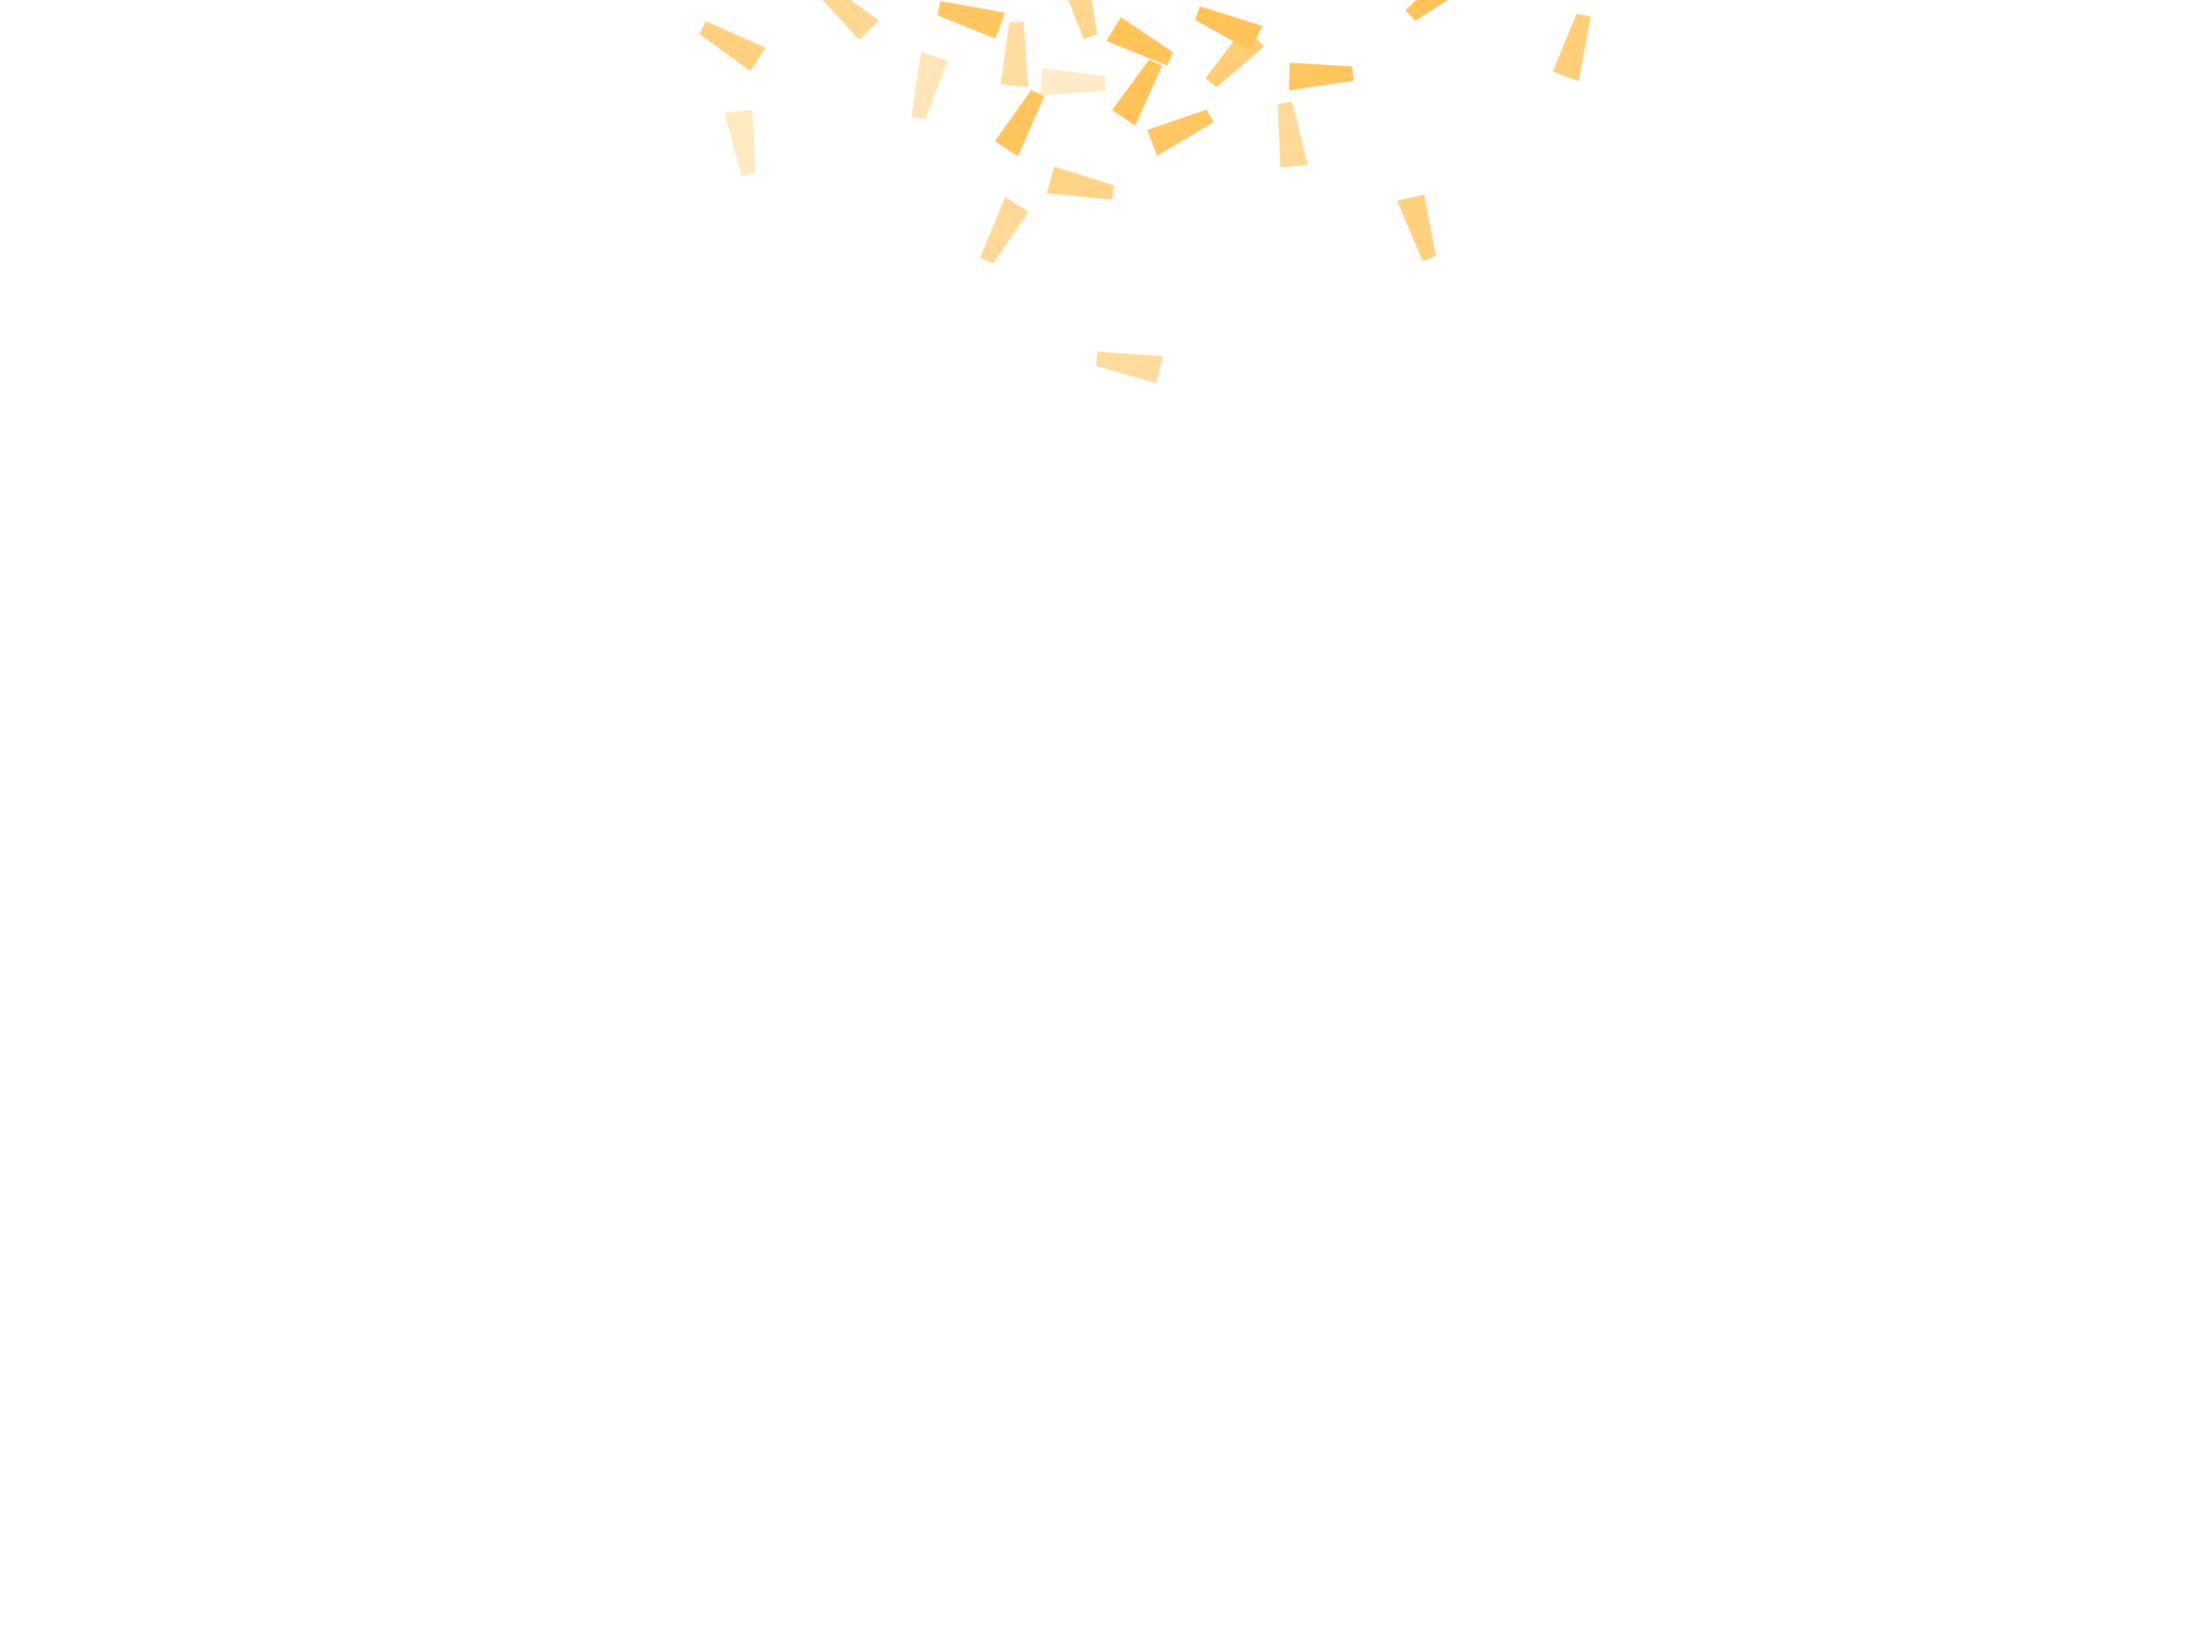
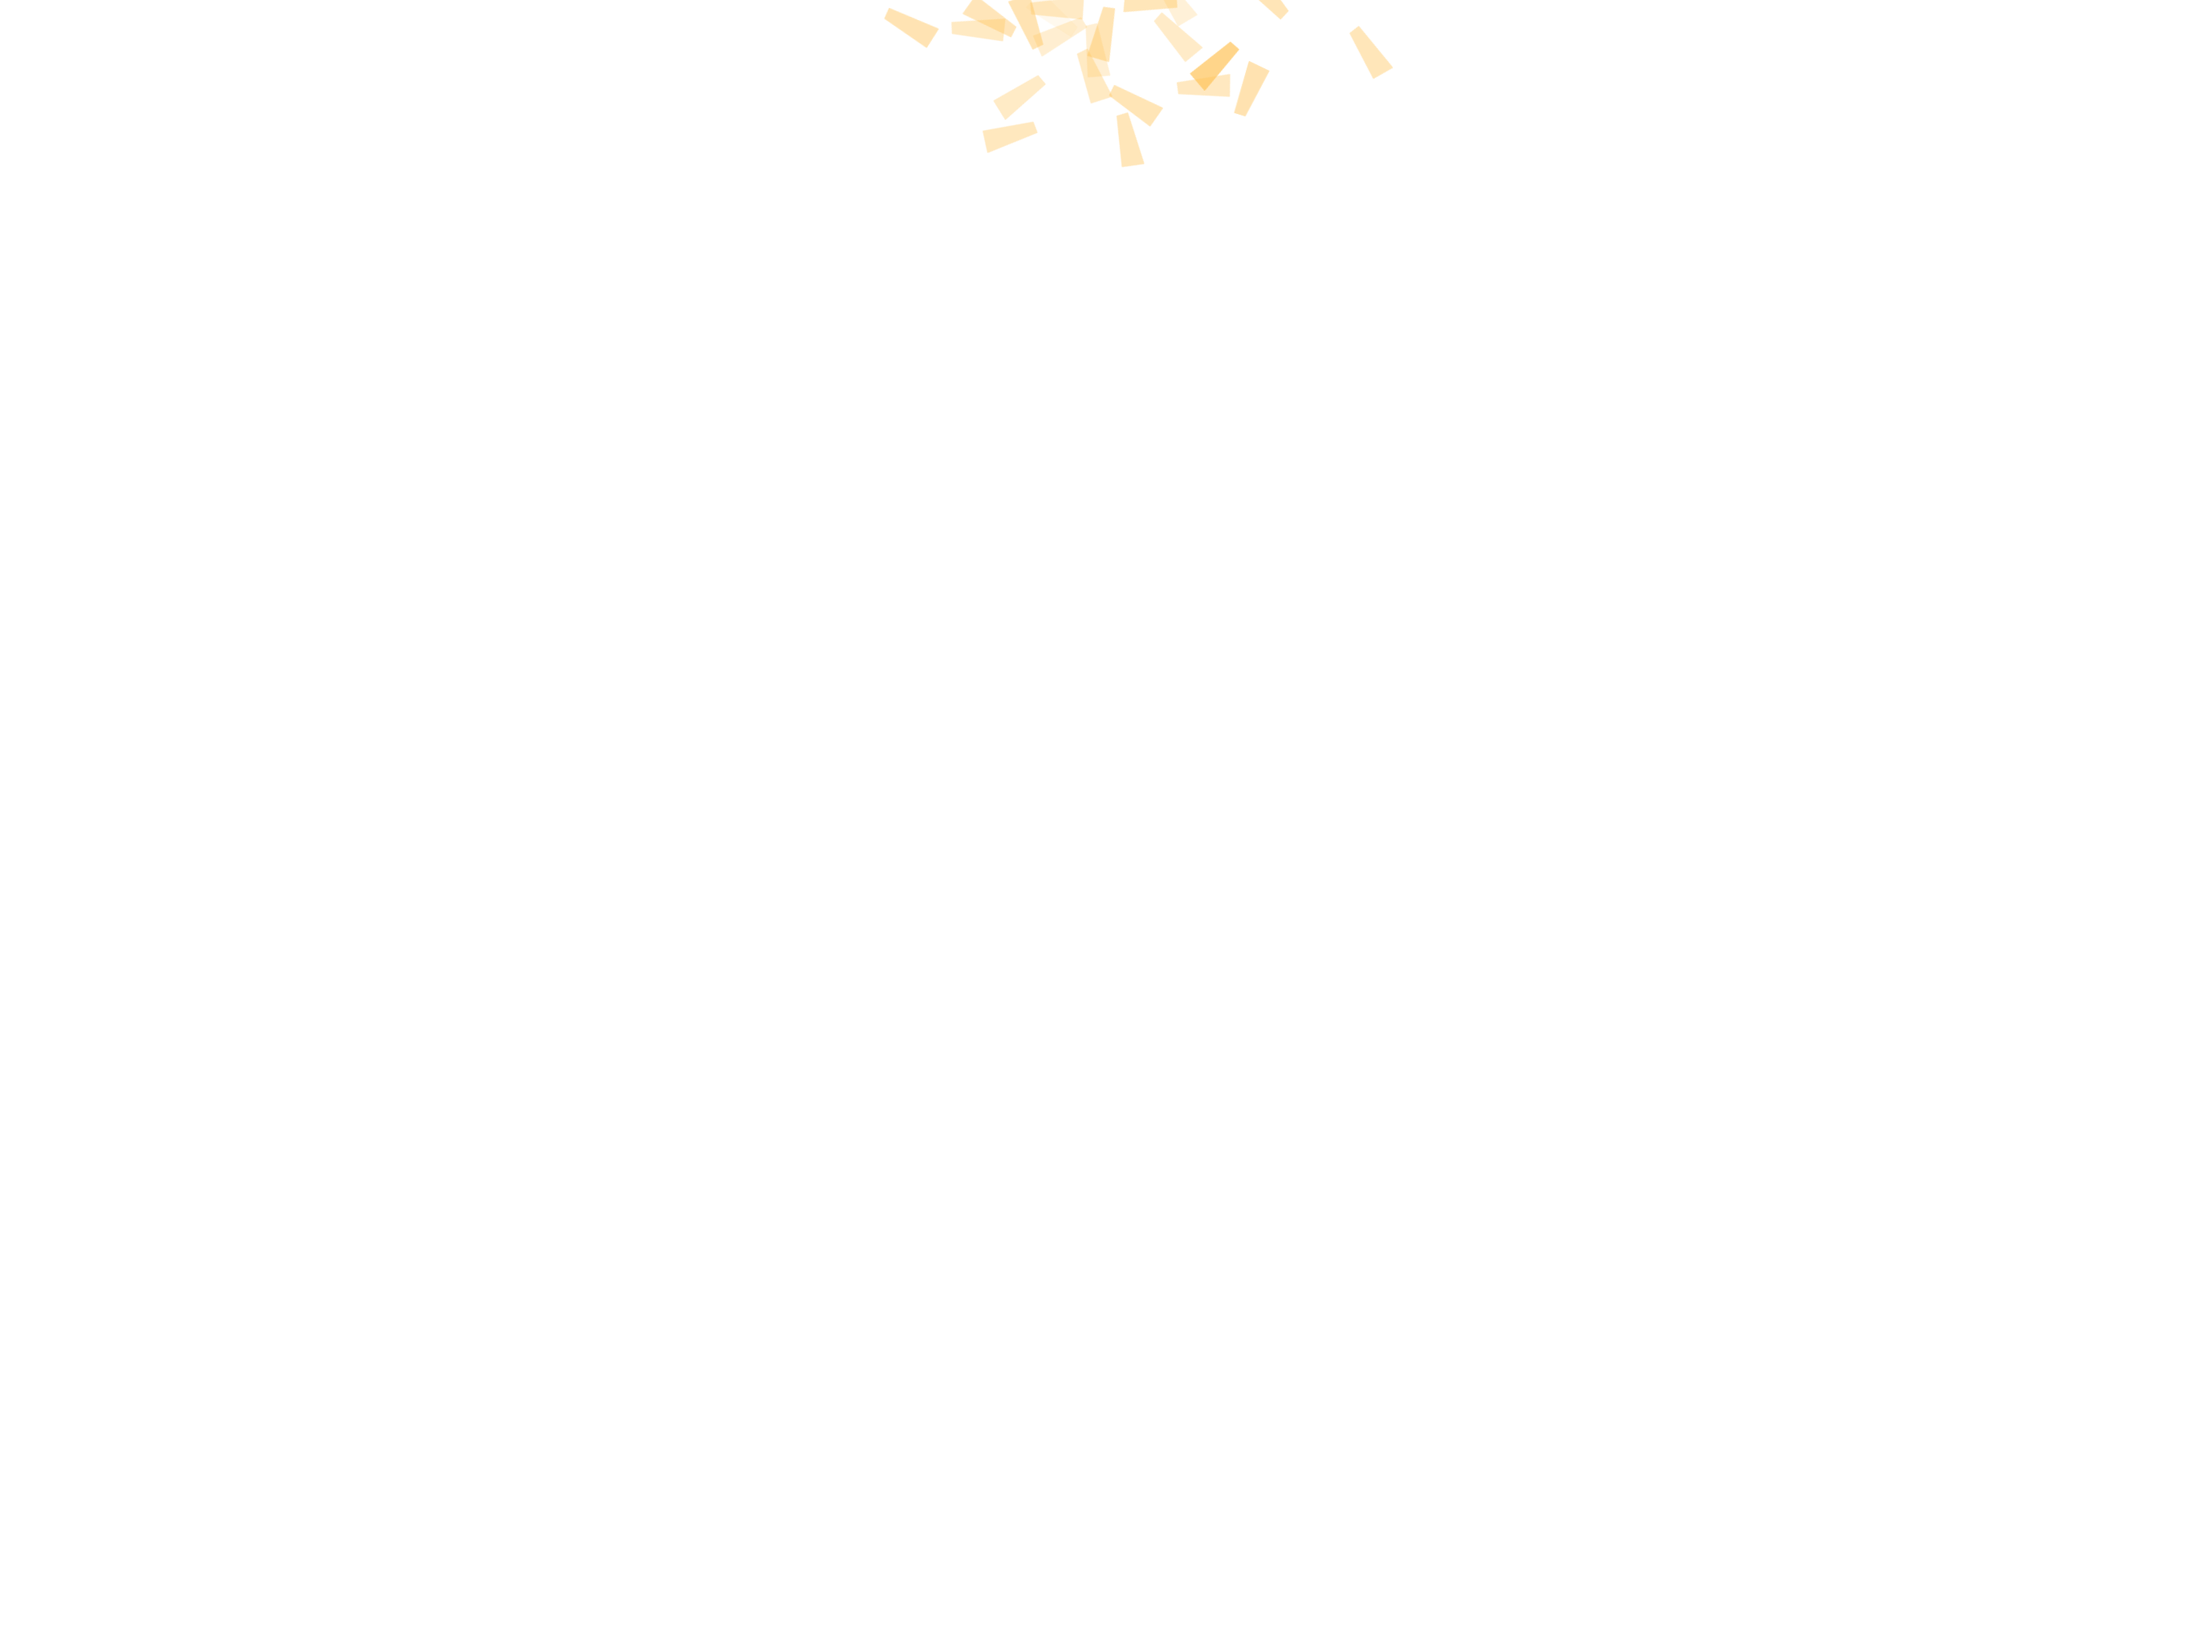
confetti update

diff --git a/experiments/v1/jspsych-6.3.1/css/catAct.css b/experiments/v1/jspsych-6.3.1/css/catAct.css
@@ -138,7 +138,7 @@ body {
 
 .frame1 {
   animation-name: frame1;
-  animation-duration: 1.5s;
+  animation-duration: 2.0s;
   animation-iteration-count: 1;
   animation-timing-function: linear;
 }
@@ -151,7 +151,7 @@ body {
 
 .frame2 {
   animation-name: frame2;
-  animation-duration: 2.5s;
+  animation-duration: 2.0s;
   animation-iteration-count: 1;
   animation-timing-function: linear;
 }
@@ -166,7 +166,7 @@ body {
 
 .frame3 {
   animation-name: frame3;
-  animation-duration: 2.5s;
+  animation-duration: 2.0s;
   animation-iteration-count: 1;
   animation-timing-function: linear;
 }
@@ -181,7 +181,7 @@ body {
 
 .frame4 {
   animation-name: frame4;
-  animation-duration: 2.5s;
+  animation-duration: 2.0s;
   animation-iteration-count: 1;
   animation-timing-function: linear;
 }
@@ -196,7 +196,7 @@ body {
 
 .frame5 {
   animation-name: frame5;
-  animation-duration: 2.5s;
+  animation-duration: 2.0s;
   animation-iteration-count: 1;
   animation-timing-function: linear;
 }
@@ -211,7 +211,7 @@ body {
 
 .frame6 {
   animation-name: frame6;
-  animation-duration: 2.5s;
+  animation-duration: 2.0s;
   animation-iteration-count: 1;
   animation-timing-function: linear;
 }
@@ -226,7 +226,7 @@ body {
 
 .frame7 {
   animation-name: frame7;
-  animation-duration: 2.5s;
+  animation-duration: 2.0s;
   animation-iteration-count: 1;
   animation-timing-function: linear;
 }
@@ -241,7 +241,7 @@ body {
 
 .frame8 {
   animation-name: frame8;
-  animation-duration: 2.5s;
+  animation-duration: 2.0s;
   animation-iteration-count: 1;
   animation-timing-function: linear;
 }
@@ -256,7 +256,7 @@ body {
 
 .frame9 {
   animation-name: frame9;
-  animation-duration: 2.5s;
+  animation-duration: 2.0s;
   animation-iteration-count: 1;
   animation-timing-function: linear;
 }
@@ -271,7 +271,7 @@ body {
 
 .frame10 {
   animation-name: frame10;
-  animation-duration: 2.5s;
+  animation-duration: 2.0s;
   animation-iteration-count: 1;
   animation-timing-function: linear;
 }
@@ -285,7 +285,7 @@ body {
 }
 .frame11 {
   animation-name: frame11;
-  animation-duration: 2.5s;
+  animation-duration: 2.0s;
   animation-iteration-count: 1;
   animation-timing-function: linear;
 }
@@ -299,7 +299,7 @@ body {
 }
 .frame12 {
   animation-name: frame12;
-  animation-duration: 2.5s;
+  animation-duration: 2.0s;
   animation-iteration-count: 1;
   animation-timing-function: linear;
 }
@@ -314,7 +314,7 @@ body {
 
 .frame13 {
   animation-name: frame13;
-  animation-duration: 2.5s;
+  animation-duration: 2.0s;
   animation-iteration-count: 1;
   animation-timing-function: linear;
 }
@@ -328,7 +328,7 @@ body {
 
 .frame14 {
   animation-name: frame14;
-  animation-duration: 2.5s;
+  animation-duration: 2.0s;
   animation-iteration-count: 1;
   animation-timing-function: linear;
 }

diff --git a/experiments/v1/index.html b/experiments/v1/index.html
@@ -201,7 +201,7 @@
 			type: 'html-keyboard-response',
       stimulus: alien_sticker_stimulus,
 			choices: ["NO_KEYS"],
-      trial_duration: 2500
+      trial_duration: 2000
 		}
 		timeline.push(alien_sticker_animated); 
 
